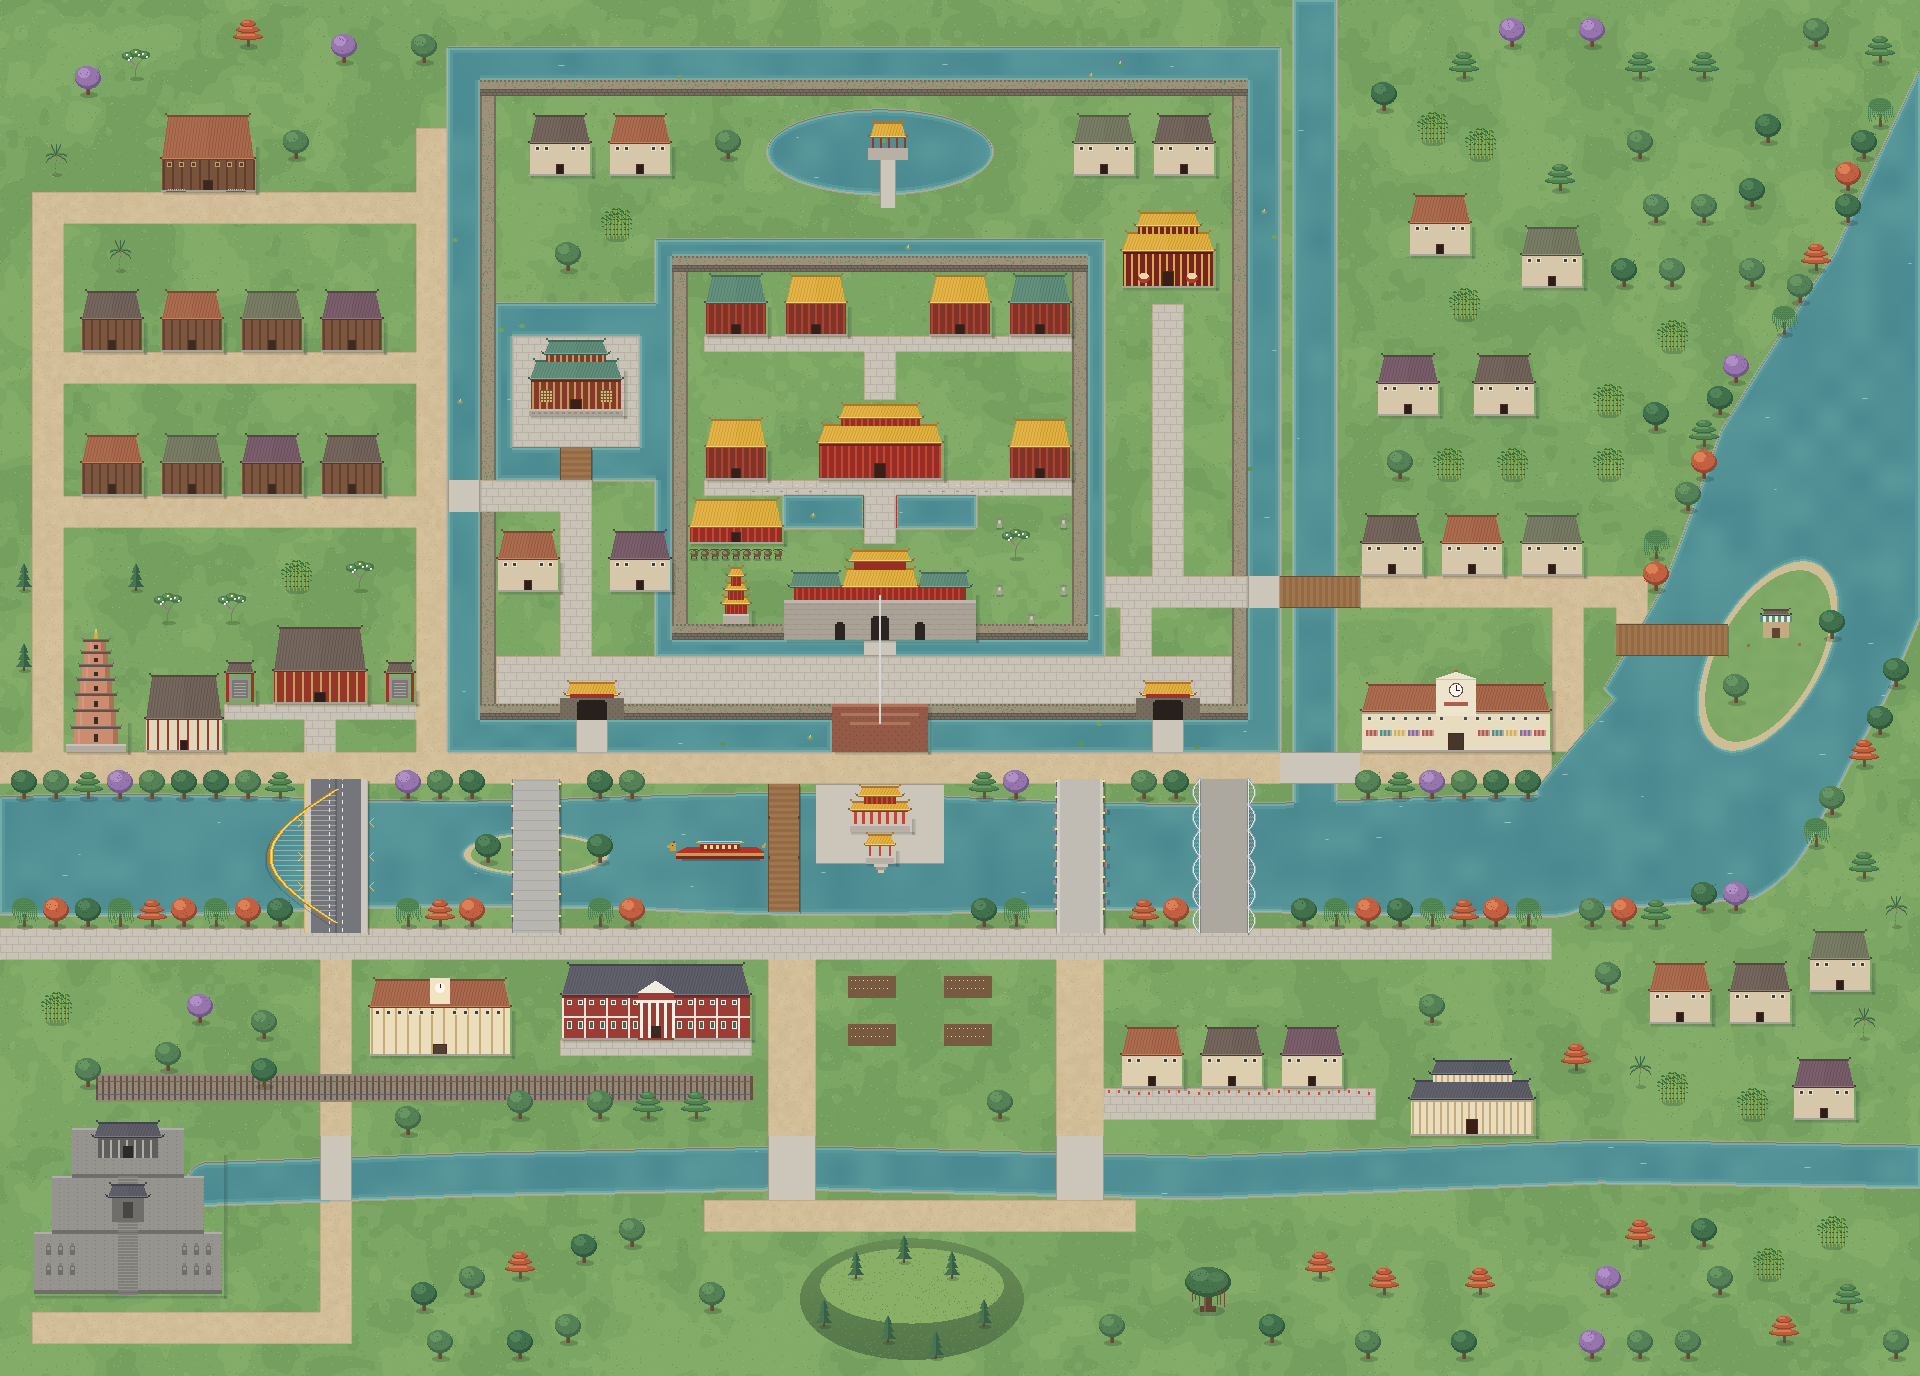
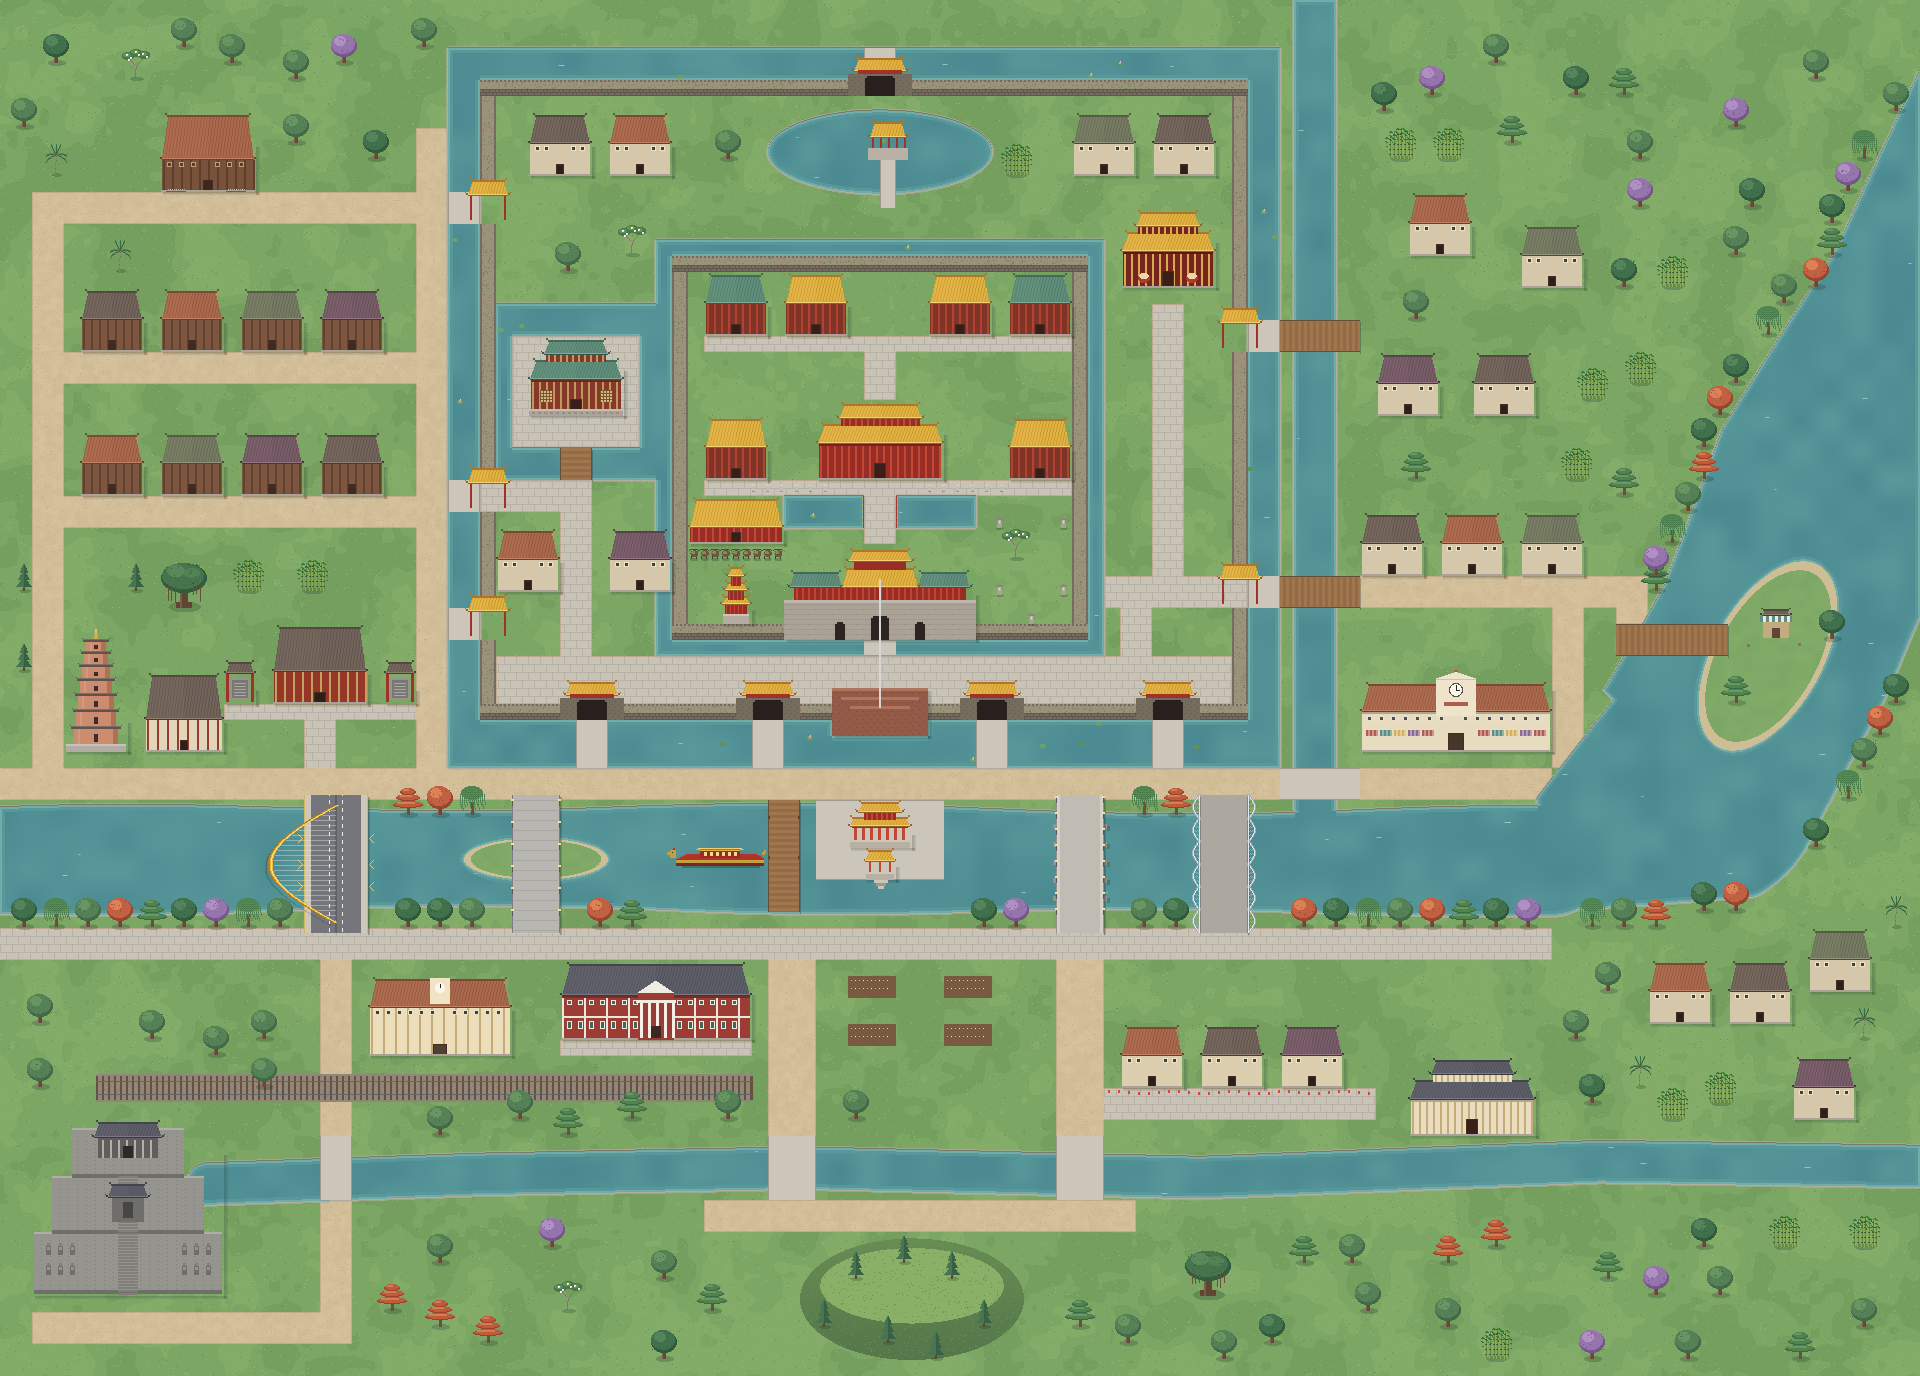
feat: the Citadel's ten gates, and the moat in front of Kỳ Đài
Kỳ Đài juts out from the front wall with the moat passing before it, as in
Huế, instead of standing in the water; the river runs a little further south
to make room. Every land gate is open, with its causeway, gate house, label
and story: Chánh Nam, Quảng Đức, Ngăn and Thượng Tứ on the front; Đông Ba and
Kẻ Trài east; Hậu north; An Hòa, Chánh Tây and Hữu west.

diff --git a/src/i18n/messages/vi/places.ts b/src/i18n/messages/vi/places.ts
@@ -148,4 +148,44 @@ export default {
   'places.hienLamEn': 'Pavilion of Glorious Merit',
   'places.hienLamAbout': 'Gác ba tầng đối diện Thế Miếu, xây những năm 1820 để ghi công những người có công với triều đại.',
   'places.hienLamFact': 'Theo lệ triều đình, không công trình nào trong Kinh Thành được cao hơn gác này.',
+  'places.chanhNam': 'Chánh Nam Môn',
+  'places.chanhNamEn': 'The Main South Gate',
+  'places.chanhNamAbout': 'Một trong các cửa ở mặt trước Kinh Thành, phía tây Kỳ Đài. Người Huế quen gọi là Cửa Nhà Đồ.',
+  'places.chanhNamFact': 'Tường thành Kinh Thành dài khoảng 10 km, bắt đầu xây năm 1805 dưới thời vua Gia Long.',
+  'places.quangDuc': 'Cửa Quảng Đức',
+  'places.quangDucEn': 'Quảng Đức Gate',
+  'places.quangDucAbout': 'Cửa ở mặt trước Kinh Thành, ngay phía tây Kỳ Đài, mở ra con đường dọc sông Hương.',
+  'places.quangDucFact': 'Kinh Thành có mười cửa đường bộ, thêm Trấn Bình Môn và hai cửa đường thủy nơi sông đào chảy qua tường thành.',
+  'places.cuaNgan': 'Cửa Ngăn',
+  'places.cuaNganEn': 'Thể Nhơn Gate',
+  'places.cuaNganAbout': 'Tên chính thức là Cửa Thể Nhơn, ở mặt trước Kinh Thành, ngay phía đông Kỳ Đài, gần Phu Văn Lâu.',
+  'places.cuaNganFact': '“Ngăn” là ngăn cách, giữ lại — cái tên dân gian này còn quen thuộc hơn cả tên chính thức.',
+  'places.thuongTu': 'Cửa Thượng Tứ',
+  'places.thuongTuEn': 'South-East Gate',
+  'places.thuongTuAbout': 'Cửa đông nam của Kinh Thành, trên đường ra cầu Trường Tiền và chợ Đông Ba.',
+  'places.thuongTuFact': 'Cửa mang tên Viện Thượng Tứ, nơi triều Nguyễn lập ra để trông coi ngựa cho vua.',
+  'places.dongBaGate': 'Cửa Đông Ba',
+  'places.dongBaGateEn': 'Main East Gate',
+  'places.dongBaGateAbout': 'Tên chính thức là Cửa Chánh Đông, cửa chính ở mặt đông Kinh Thành, nhìn qua sông đào sang Gia Hội.',
+  'places.dongBaGateFact': 'Chợ Đông Ba ngay bên ngoài mang tên theo cửa này.',
+  'places.keTrai': 'Cửa Kẻ Trài',
+  'places.keTraiEn': 'North-East Gate',
+  'places.keTraiAbout': 'Cửa đông bắc của Kinh Thành (Cửa Đông Bắc), một trong mười cửa đường bộ.',
+  'places.keTraiFact': 'Cửa nằm cách Cửa Đông Ba chừng một cây số về phía bắc, trên cùng mặt thành phía đông.',
+  'places.cuaHau': 'Cửa Hậu',
+  'places.cuaHauEn': 'Main North Gate',
+  'places.cuaHauAbout': 'Tên chính thức là Cửa Chánh Bắc, cửa chính ở mặt sau Kinh Thành — Kinh Thành quay mặt ra sông.',
+  'places.cuaHauFact': '“Hậu” nghĩa là “sau”: đây là cửa sau.',
+  'places.anHoa': 'Cửa An Hòa',
+  'places.anHoaEn': 'North-West Gate',
+  'places.anHoaAbout': 'Cửa tây bắc của Kinh Thành (Cửa Tây Bắc), trên đường đi ra phía bắc.',
+  'places.anHoaFact': 'Cửa mang tên làng và chợ An Hòa ngay bên ngoài.',
+  'places.chanhTay': 'Cửa Chánh Tây',
+  'places.chanhTayEn': 'Main West Gate',
+  'places.chanhTayAbout': 'Cửa chính ở mặt tây Kinh Thành, nơi con đường từ Kim Long đi vào.',
+  'places.chanhTayFact': 'Ngày nay đường Thái Phiên chạy qua cửa này.',
+  'places.cuaHuu': 'Cửa Hữu',
+  'places.cuaHuuEn': 'South-West Gate',
+  'places.cuaHuuAbout': 'Tên chính thức là Cửa Tây Nam, gần góc tây nam Kinh Thành.',
+  'places.cuaHuuFact': '“Hữu” nghĩa là “phải”: đứng quay mặt ra sông như Kinh Thành, phía này ở bên tay phải.',
 } satisfies Record<keyof typeof en, string>;

diff --git a/src/i18n/messages/en/places.ts b/src/i18n/messages/en/places.ts
@@ -154,4 +154,44 @@ export default {
   'places.hienLamEn': 'Pavilion of Glorious Merit',
   'places.hienLamAbout': 'A three-tiered pavilion facing Thế Miếu, built in the 1820s to honour those who served the dynasty well.',
   'places.hienLamFact': 'By royal rule, no building in the Citadel was allowed to stand taller than it.',
+  'places.chanhNam': 'Chánh Nam Môn',
+  'places.chanhNamEn': 'The Main South Gate',
+  'places.chanhNamAbout': 'One of the gates in the Citadel’s front wall, west of Kỳ Đài. Huế people call it Cửa Nhà Đồ.',
+  'places.chanhNamFact': 'The Citadel’s walls run for about 10 km around — work on them began in 1805 under Emperor Gia Long.',
+  'places.quangDuc': 'Cửa Quảng Đức',
+  'places.quangDucEn': 'Quảng Đức Gate',
+  'places.quangDucAbout': 'A gate in the Citadel’s front wall just west of Kỳ Đài, opening onto the road along the Perfume River.',
+  'places.quangDucFact': 'The Citadel has ten gates by land, plus Trấn Bình Môn and two water gates where the canals pass through the walls.',
+  'places.cuaNgan': 'Cửa Ngăn',
+  'places.cuaNganEn': 'Thể Nhơn Gate',
+  'places.cuaNganAbout': 'Its formal name is Cửa Thể Nhơn. It stands in the front wall just east of Kỳ Đài, close to Phu Văn Lâu.',
+  'places.cuaNganFact': '“Ngăn” means to hold back, to keep apart — an everyday name that stuck harder than the formal one.',
+  'places.thuongTu': 'Cửa Thượng Tứ',
+  'places.thuongTuEn': 'South-East Gate',
+  'places.thuongTuAbout': 'The Citadel’s south-east gate, on the way to Trường Tiền bridge and Đông Ba market.',
+  'places.thuongTuFact': 'It is named after Viện Thượng Tứ, the court office that looked after the emperor’s horses nearby.',
+  'places.dongBaGate': 'Cửa Đông Ba',
+  'places.dongBaGateEn': 'Main East Gate',
+  'places.dongBaGateAbout': 'Its formal name is Cửa Chánh Đông, the main gate in the Citadel’s east wall, looking across the canal to Gia Hội.',
+  'places.dongBaGateFact': 'Đông Ba market just outside takes its name from this gate.',
+  'places.keTrai': 'Cửa Kẻ Trài',
+  'places.keTraiEn': 'North-East Gate',
+  'places.keTraiAbout': 'The Citadel’s north-east gate, Cửa Đông Bắc, one of its ten gates by land.',
+  'places.keTraiFact': 'It stands about a kilometre north of Cửa Đông Ba, along the same east wall.',
+  'places.cuaHau': 'Cửa Hậu',
+  'places.cuaHauEn': 'Main North Gate',
+  'places.cuaHauAbout': 'Its formal name is Cửa Chánh Bắc, the main gate in the north wall — the back of the Citadel, which faces the river.',
+  'places.cuaHauFact': '“Hậu” means “back”: this is the back gate.',
+  'places.anHoa': 'Cửa An Hòa',
+  'places.anHoaEn': 'North-West Gate',
+  'places.anHoaAbout': 'The Citadel’s north-west gate, Cửa Tây Bắc, on the road out to the north.',
+  'places.anHoaFact': 'It takes its name from An Hòa, the village and market just outside it.',
+  'places.chanhTay': 'Cửa Chánh Tây',
+  'places.chanhTayEn': 'Main West Gate',
+  'places.chanhTayAbout': 'The main gate in the Citadel’s west wall, where the road from Kim Long comes in.',
+  'places.chanhTayFact': 'Today Thái Phiên street runs through it.',
+  'places.cuaHuu': 'Cửa Hữu',
+  'places.cuaHuuEn': 'South-West Gate',
+  'places.cuaHuuAbout': 'Its formal name is Cửa Tây Nam, the gate near the Citadel’s south-west corner.',
+  'places.cuaHuuFact': '“Hữu” means “right”: facing the river, as the Citadel does, this side is on your right.',
 } satisfies Catalog;

diff --git a/src/game/mapPlaces.ts b/src/game/mapPlaces.ts
@@ -29,6 +29,16 @@ export const LABEL_PLACES: Record<string, string> = {
   'Nghênh Lương Đình': 'nghenhLuong',
   'Thế Miếu': 'theMieu',
   'Hiển Lâm Các': 'hienLam',
+  'Chánh Nam Môn': 'chanhNam',
+  'Cửa Quảng Đức': 'quangDuc',
+  'Cửa Ngăn': 'cuaNgan',
+  'Cửa Thượng Tứ': 'thuongTu',
+  'Cửa Đông Ba': 'dongBaGate',
+  'Cửa Kẻ Trài': 'keTrai',
+  'Cửa Hậu': 'cuaHau',
+  'Cửa An Hòa': 'anHoa',
+  'Cửa Chánh Tây': 'chanhTay',
+  'Cửa Hữu': 'cuaHuu',
 };
 
 /** Where each keeper stands — walking up to one tells that place's story.

diff --git a/src/game/scenes/WorldScene.ts b/src/game/scenes/WorldScene.ts
@@ -1042,8 +1042,8 @@ export class WorldScene extends Phaser.Scene {
   private spawnTraffic() {
     const lanes: [number, Exclude<Ride, 'walk'>, boolean, number][] = [
       // [road row, ride, carries a passenger, speed px/s]
-      [48.6, 'bike', false, 70],
-      [48.6, 'cyclo', false, 45],
+      [49.6, 'bike', false, 70],
+      [49.6, 'cyclo', false, 45],
       [59.6, 'cyclo', true, 40],
       [59.6, 'bike', false, 85],
     ];
